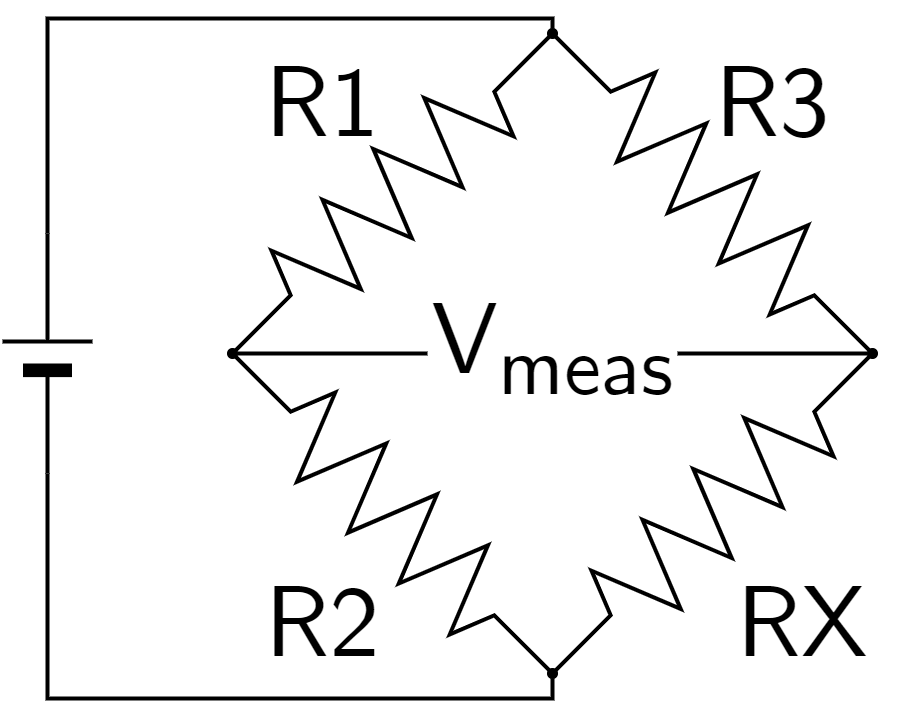
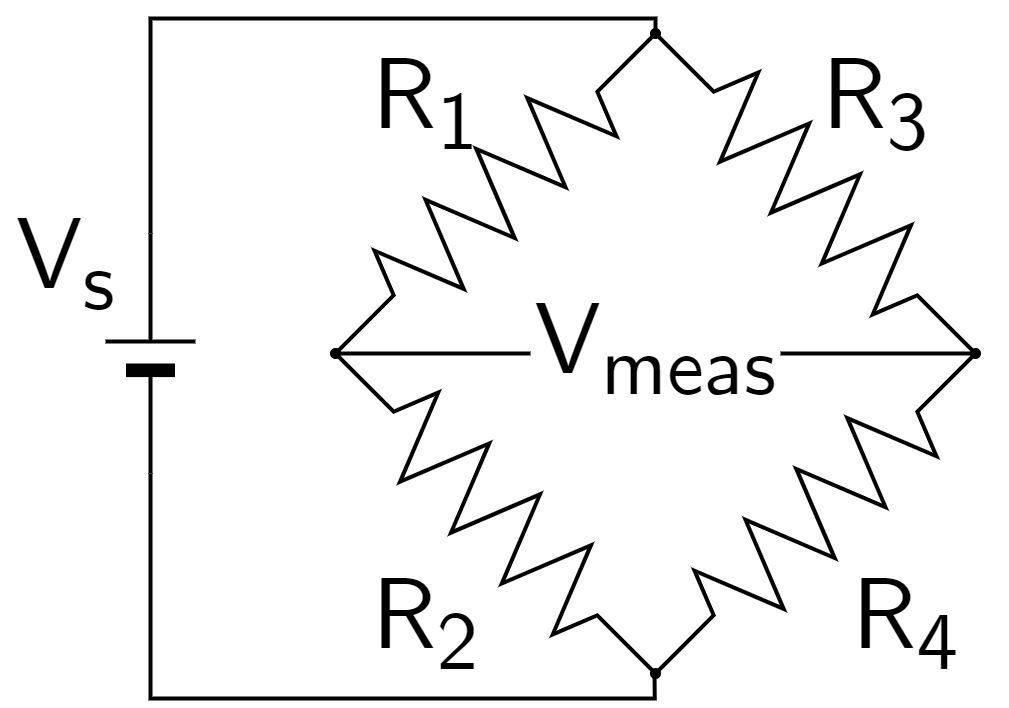
Edited wheatstone bridge

diff --git a/chapters/appendices/wheatstone_bridge.tex b/chapters/appendices/wheatstone_bridge.tex
@@ -1,19 +1,19 @@
 \chapter{Wheatstone Bridge} \labchap{wheatstone_bridge}
-The Wheatstone Bridge is a configuration of four resistors in two voltage dividers as shown in Figure \ref{fig:wheatstone_bridge} below that is sensitive to minute changes in resistance.
+The Wheatstone Bridge is a configuration of four resistors in two voltage dividers, as shown in Figure \ref{fig:wheatstone_bridge}, that is sensitive to minute changes in resistance.
 Resistors $R_1$ and $R_2$ form the first divider and $R_3$ and $R_4$ form the second divider.
 The bridge has at least three different solutions, depending on the configuration and desired application.
-For applications where $R_1$, $R_2$, and $R_3$ are known to a high precision, then $R_4$ can be determined to an equally high precision by adjusting $R_3$ until the voltage potential between points $B$ and $D$ is near 0, i.e. the bridge is "balanced".
-However, for most embedded applications, like those described in further sections, $R_4$ cannot be determined by balancing the bridge, so either the general solution or linearization must be used.
-For simplicity, only the linearization solution will be examined here, the full derivation and explanation for all three solutions can be found in Appendix \ref{chap:voltage_divider}.
+For applications where $R_1$, $R_2$, and $R_3$ are known to a high precision, then $R_4$ can be determined to an equally high precision by adjusting $R_3$ until the voltage potential between points $B$ and $D$ is near 0, i.e. the bridge is ``balanced''.
+However, for most embedded applications, $R_4$ cannot be determined by balancing the bridge, so either the general solution or linearization must be used.
+For simplicity, only the linearization solution will be examined here.
 
 \begin{figure}[h!]
     \caption{A generalized wheatstone bridge}
     \labfig{wheatstone_bridge}
     \centering
-    \includegraphics[height=2.5in]{appendices/wheatstone_bridge/wheatstone_bridge.png}
+    \includegraphics[height=1.5in]{appendices/wheatstone_bridge/wheatstone_bridge.png}
 \end{figure}
 
-For the linear solution, the circuit adds an operational amplifier between points $D$ and $B$ and assumes that $R_1+R_2=R_3=R_0$ and $R_4 = R_0 + \Delta R$ and the op-amp is an ideal component ($R_{\text{amp}}$ = 0).
+For the linear solution, the circuit adds an operational amplifier between points $D$ and $B$ and assumes that $R_1=R_2=R_3=R_0$ and $R_4 = R_0 + \Delta R$ and the op-amp is an ideal component ($R_{\text{amp}}$ = 0).
 Because of this, the voltage potential at Point $B$ will have a constant value of:
 
 \begin{equation*}
@@ -24,7 +24,7 @@ Because of this, the voltage potential at Point $B$ will have a constant value o
     \caption{A linearized wheatstone bridge}
     \labfig{wheatstone_bridge_linearized}
     \centering
-    \includegraphics[height=2.5in]{appendices/wheatstone_bridge/wheatstone_bridge_linearized.png}
+    \includegraphics[height=1.5in]{appendices/wheatstone_bridge/wheatstone_bridge_linearized.png}
 \end{figure}
 
 Likewise, the op-amp will force the voltage at Point $D$ to have the same voltage as $B$ such that, $V_D = V_B = \frac{V_s}{2} $.
@@ -39,9 +39,9 @@ By Ohm's law, the voltage across the sensor will therefore be:
 By applying Kirchoff's voltage law, the potential between the amplifier output and ground, $V_{out} $, is:
 
 \begin{align*}
-    V_{out} &= -V_4 + V_D \\
+    V_{\text{meas}} &= -V_4 + V_D \\
             &= -\left( \frac{V_s}{2} + \frac{V_s}{2} \Delta R\right) + V_D \\
-    V_{out} &= -\frac{V_s}{2} \Delta R
+    V_{\text{meas}} &= -\frac{V_s}{2} \Delta R
 \end{align*}
 
 The measured output voltage now linearly changes with the resistive sensor irregardless of if the sensor changes linearly itself.
